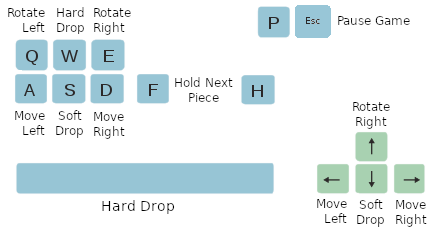
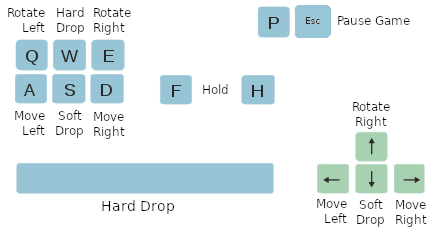
Fix hold behavior and compress instructions png

Changed region(s): [[0.2928, 0.2991, 0.527, 0.4487]]

diff --git a/www/src/js/views/tetris/TetrisGame.jsx b/www/src/js/views/tetris/TetrisGame.jsx
@@ -12,12 +12,13 @@ import Title from 'views/components/Title';
 
 import type { Board, Piece } from './board';
 import {
+  INITIAL_ROW_INDEX,
+  PIECES,
   boardToTimetableArrangement,
   defaultBoard,
-  INITIAL_ROW_INDEX,
   isPieceInBounds,
   isPiecePositionValid,
-  PIECES,
+  originalPosition,
   pieceToTimetableDayArrangement,
   placePieceOnBoard,
   removeCompleteRows,
@@ -58,6 +59,7 @@ type State = {|
   linesCleared: number,
 
   status: GameStatus,
+  canHold: boolean,
 
   currentPiece: Piece,
   holdPiece: ?Piece,
@@ -109,6 +111,7 @@ export default class TetrisGame extends PureComponent<Props, State> {
 
     this.state = {
       status: NOT_STARTED,
+      canHold: true,
 
       board: defaultBoard,
       score: 0,
@@ -281,6 +284,7 @@ export default class TetrisGame extends PureComponent<Props, State> {
     draft.board = newBoard;
     draft.score += SCORING.lineClear(rowsCleared);
     draft.linesCleared += rowsCleared;
+    draft.canHold = true;
 
     // If a piece has reached the top row, trigger game over
     if (draft.board.some((column) => column[0])) {
@@ -288,10 +292,7 @@ export default class TetrisGame extends PureComponent<Props, State> {
     }
 
     // Create next piece
-    draft.currentPiece = draft.nextPieces.shift();
-    if (draft.nextPieces.length === 0) {
-      draft.nextPieces = shuffle(PIECES);
-    }
+    this.popNextPiece(draft);
 
     return false;
   };
@@ -315,20 +316,34 @@ export default class TetrisGame extends PureComponent<Props, State> {
   };
 
   holdPiece = () => {
-    if (!this.isPlaying()) return;
+    if (!this.isPlaying() || !this.state.canHold) return;
 
     this.setState(
       produce(this.state, (draft) => {
         const holdPiece = draft.holdPiece;
-        draft.holdPiece = draft.nextPieces.shift();
+
+        // Reset the position of the current piece when it is held
+        draft.holdPiece = {
+          ...draft.currentPiece,
+          ...originalPosition(draft.currentPiece.tiles),
+        };
+
+        draft.canHold = false;
 
         if (holdPiece) {
-          draft.nextPieces.unshift(holdPiece);
-        } else if (draft.nextPieces.length === 0) {
-          draft.nextPieces = shuffle(PIECES);
+          draft.currentPiece = holdPiece;
+        } else {
+          this.popNextPiece(draft);
         }
       }),
     );
+  };
+
+  popNextPiece = (draft: State) => {
+    draft.currentPiece = draft.nextPieces.shift();
+    if (draft.nextPieces.length === 0) {
+      draft.nextPieces = shuffle(PIECES);
+    }
   };
 
   togglePause = () => {
@@ -361,7 +376,7 @@ export default class TetrisGame extends PureComponent<Props, State> {
   }
 
   render() {
-    const { score, linesCleared, board, currentPiece, nextPieces, holdPiece } = this.state;
+    const { score, linesCleared, board, currentPiece, nextPieces, holdPiece, canHold } = this.state;
     const nextPiece = nextPieces[0];
 
     const boardWithPiece = placePieceOnBoard(board, currentPiece);
@@ -396,16 +411,20 @@ export default class TetrisGame extends PureComponent<Props, State> {
 
           <section>
             <h3>Next piece</h3>
-            {renderPiece(nextPiece.tiles)}
+            <div className={styles.piecePreview}>{renderPiece(nextPiece.tiles)}</div>
           </section>
 
           <section>
             <h3>Hold</h3>
             {holdPiece ? (
-              renderPiece(holdPiece.tiles)
+              <div
+                className={classnames(styles.piecePreview, { [styles.holdUnavailable]: !canHold })}
+              >
+                {renderPiece(holdPiece.tiles)}
+              </div>
             ) : (
               <p className={styles.holdText}>
-                Press <kbd>F</kbd> or <kbd>H</kbd> to hold the next piece
+                Press <kbd>F</kbd> or <kbd>H</kbd> to hold the current piece
               </p>
             )}
           </section>

diff --git a/www/src/js/views/tetris/board.js b/www/src/js/views/tetris/board.js
@@ -1,5 +1,5 @@
 // @flow
-import { findLastIndex, range, zip } from 'lodash';
+import { findLastIndex, min, range, zip } from 'lodash';
 import produce from 'immer';
 
 import type { ColorIndex } from 'types/reducers';
@@ -24,6 +24,8 @@ export type Square = {|
   +color: ColorIndex,
 |};
 
+// A 2D array of squares representing the Tetris board in column major order.
+// The top right corner is (0, 0)
 export type Board = Array<Array<?Square>>;
 
 export type Piece = {|
@@ -34,21 +36,25 @@ export type Piece = {|
 
 export const defaultBoard: Board = range(COLUMNS).map(() => range(ROWS).map(() => null));
 
+export function originalPosition(tiles: Board) {
+  return {
+    // Center the piece
+    x: Math.floor(COLUMNS / 2 - tiles.length / 2),
+    // Find the number of tiles needed to move the entire piece above the start line
+    y: -min(tiles.map((column) => findLastIndex(column, (tile) => tile))) - 1,
+  };
+}
+
 export function makePiece(shape: string[], color: ColorIndex): Piece {
-  // Find the number of tiles needed to move the entire piece above the start line
-  const y = -findLastIndex(shape, (row) => row.includes('1')) - 1;
-
-  // Center the piece
-  const x = Math.floor(COLUMNS / 2 - shape.length / 2);
-
   // Map 1s to filled squares and 0s to to empty squares (null)
   const rows = shape.map((row) => row.split('').map((tile) => (tile === '1' ? { color } : null)));
 
+  // $FlowFixMe lodash has incorrect zip libdefs
+  const tiles: Board = zip(...rows);
+
   return {
-    y,
-    x,
-    // $FlowFixMe lodash has incorrect zip libdefs
-    tiles: zip(...rows),
+    tiles,
+    ...originalPosition(tiles),
   };
 }
 

diff --git a/www/src/js/views/tetris/TetrisGame.scss b/www/src/js/views/tetris/TetrisGame.scss
@@ -47,6 +47,10 @@
     font-size: 1.2rem;
     line-height: 1.6;
   }
+
+  .holdUnavailable {
+    opacity: 0.5;
+  }
 }
 
 .score {
